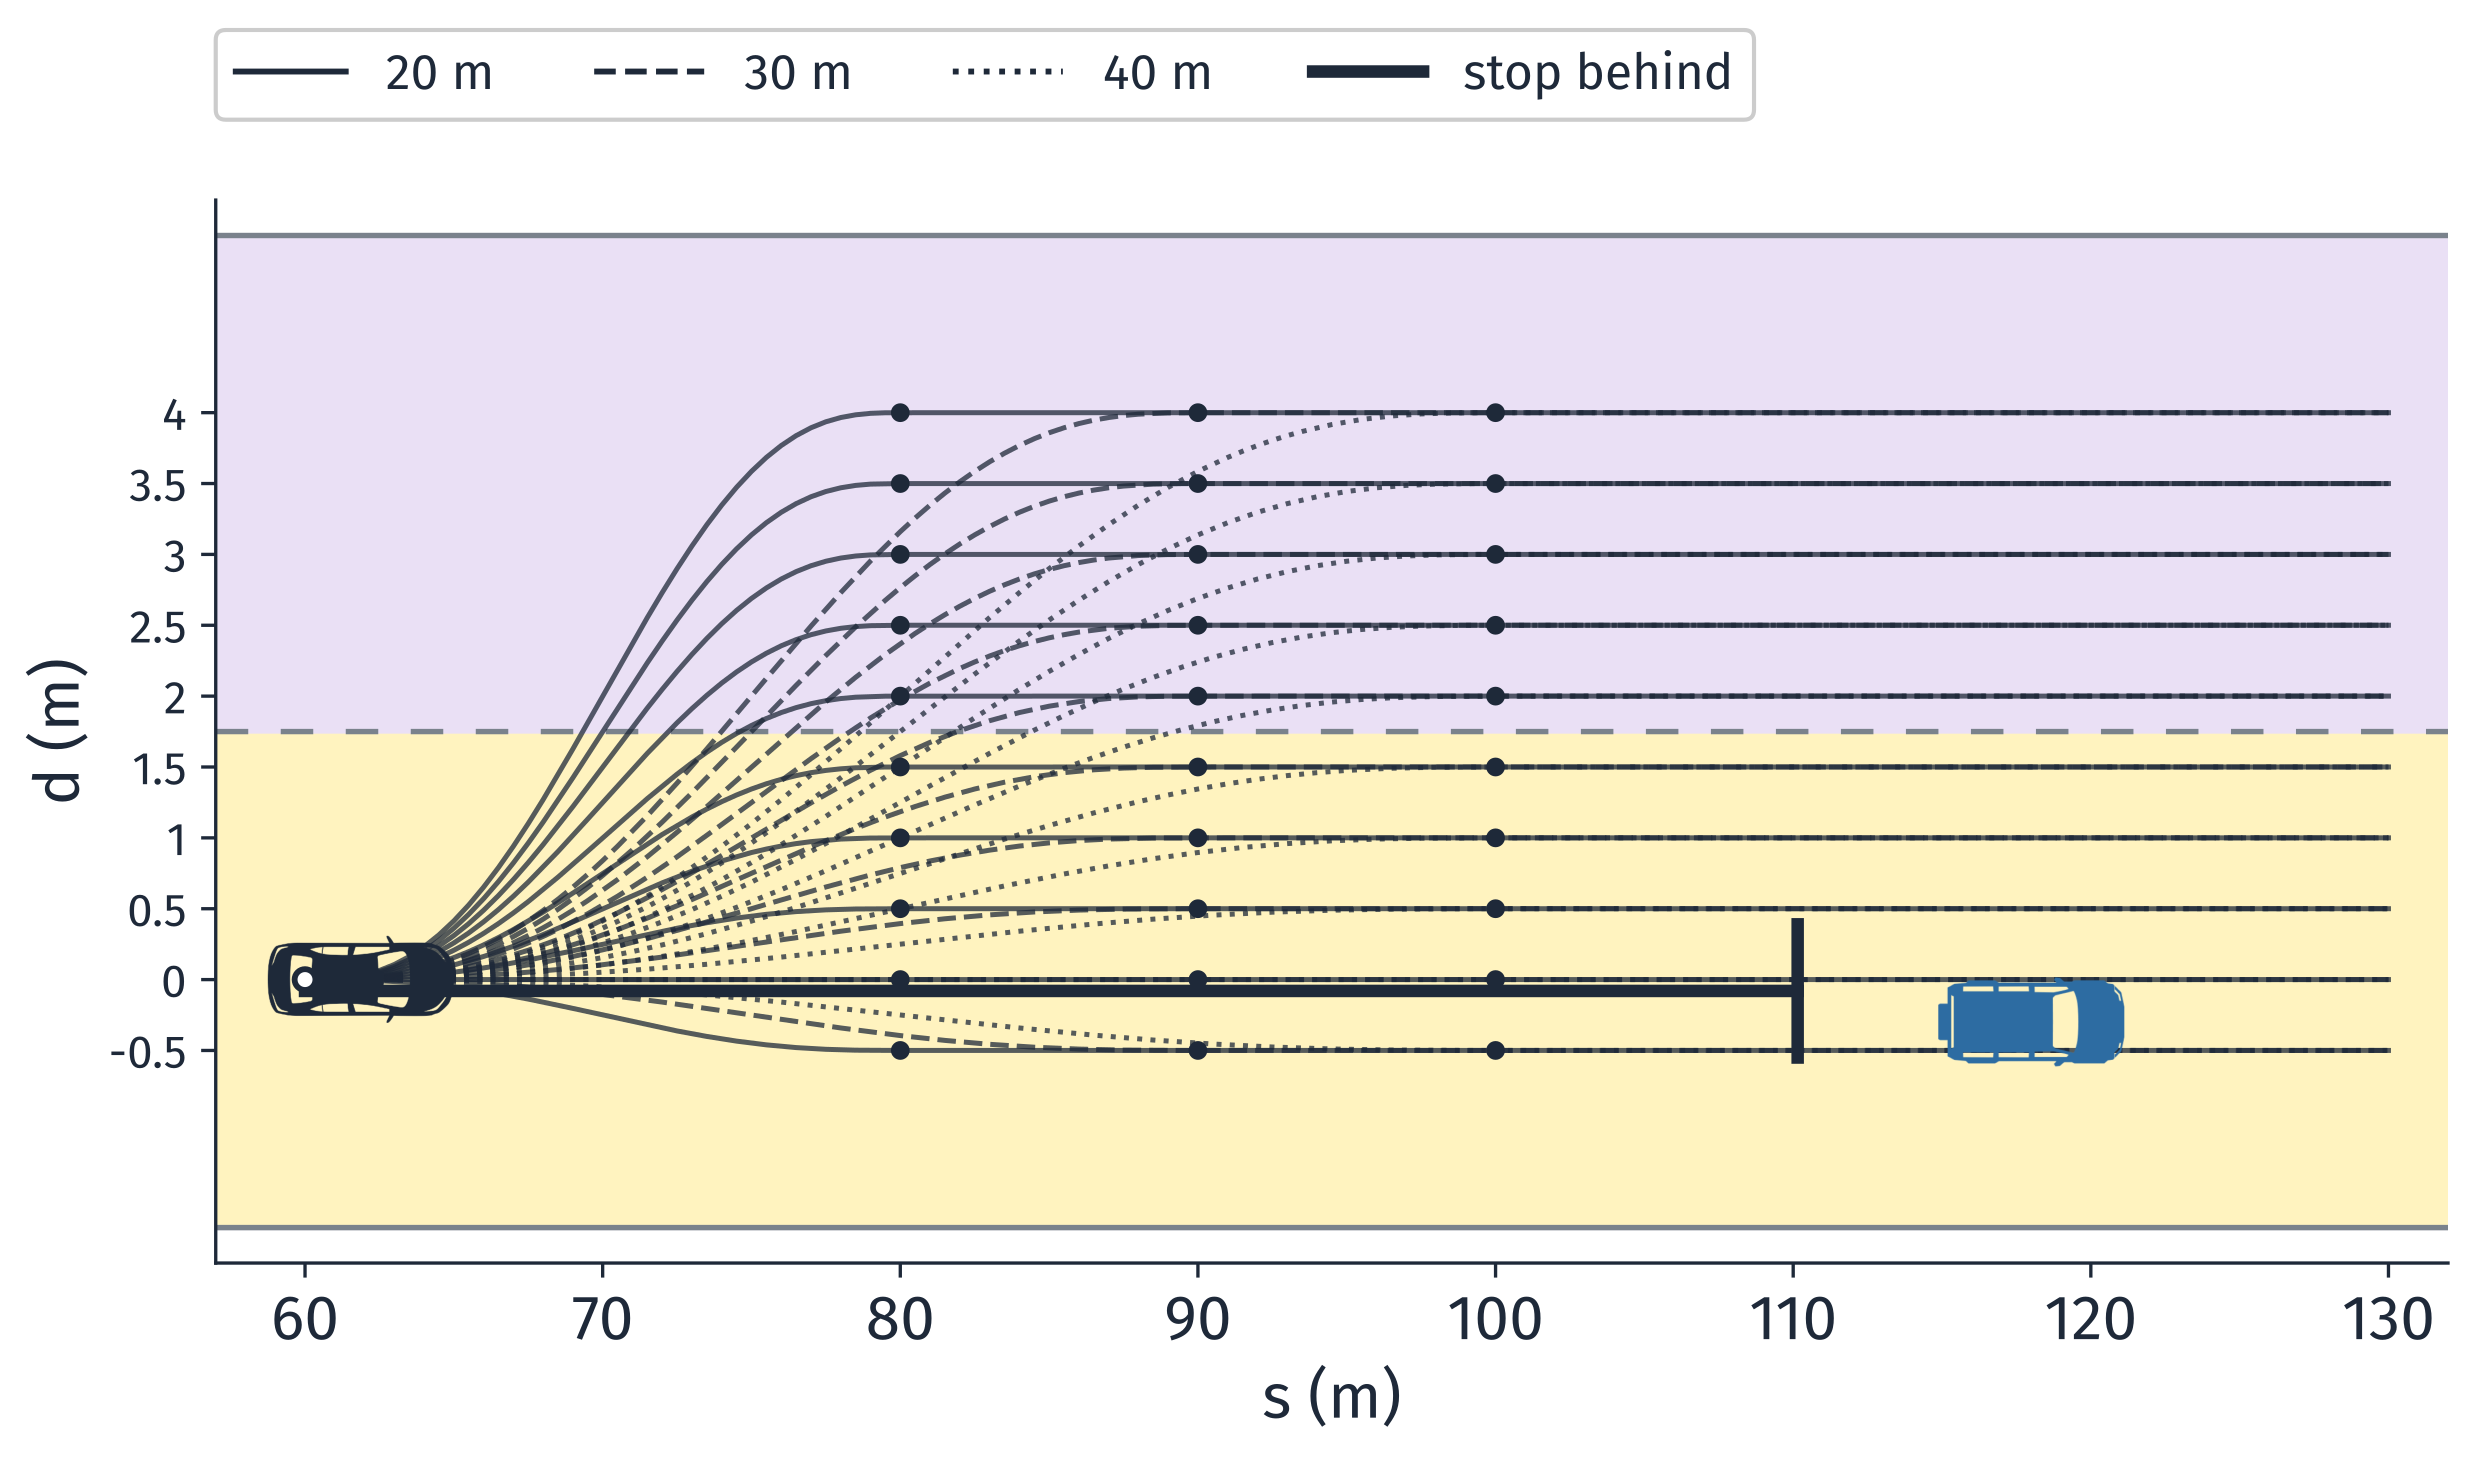
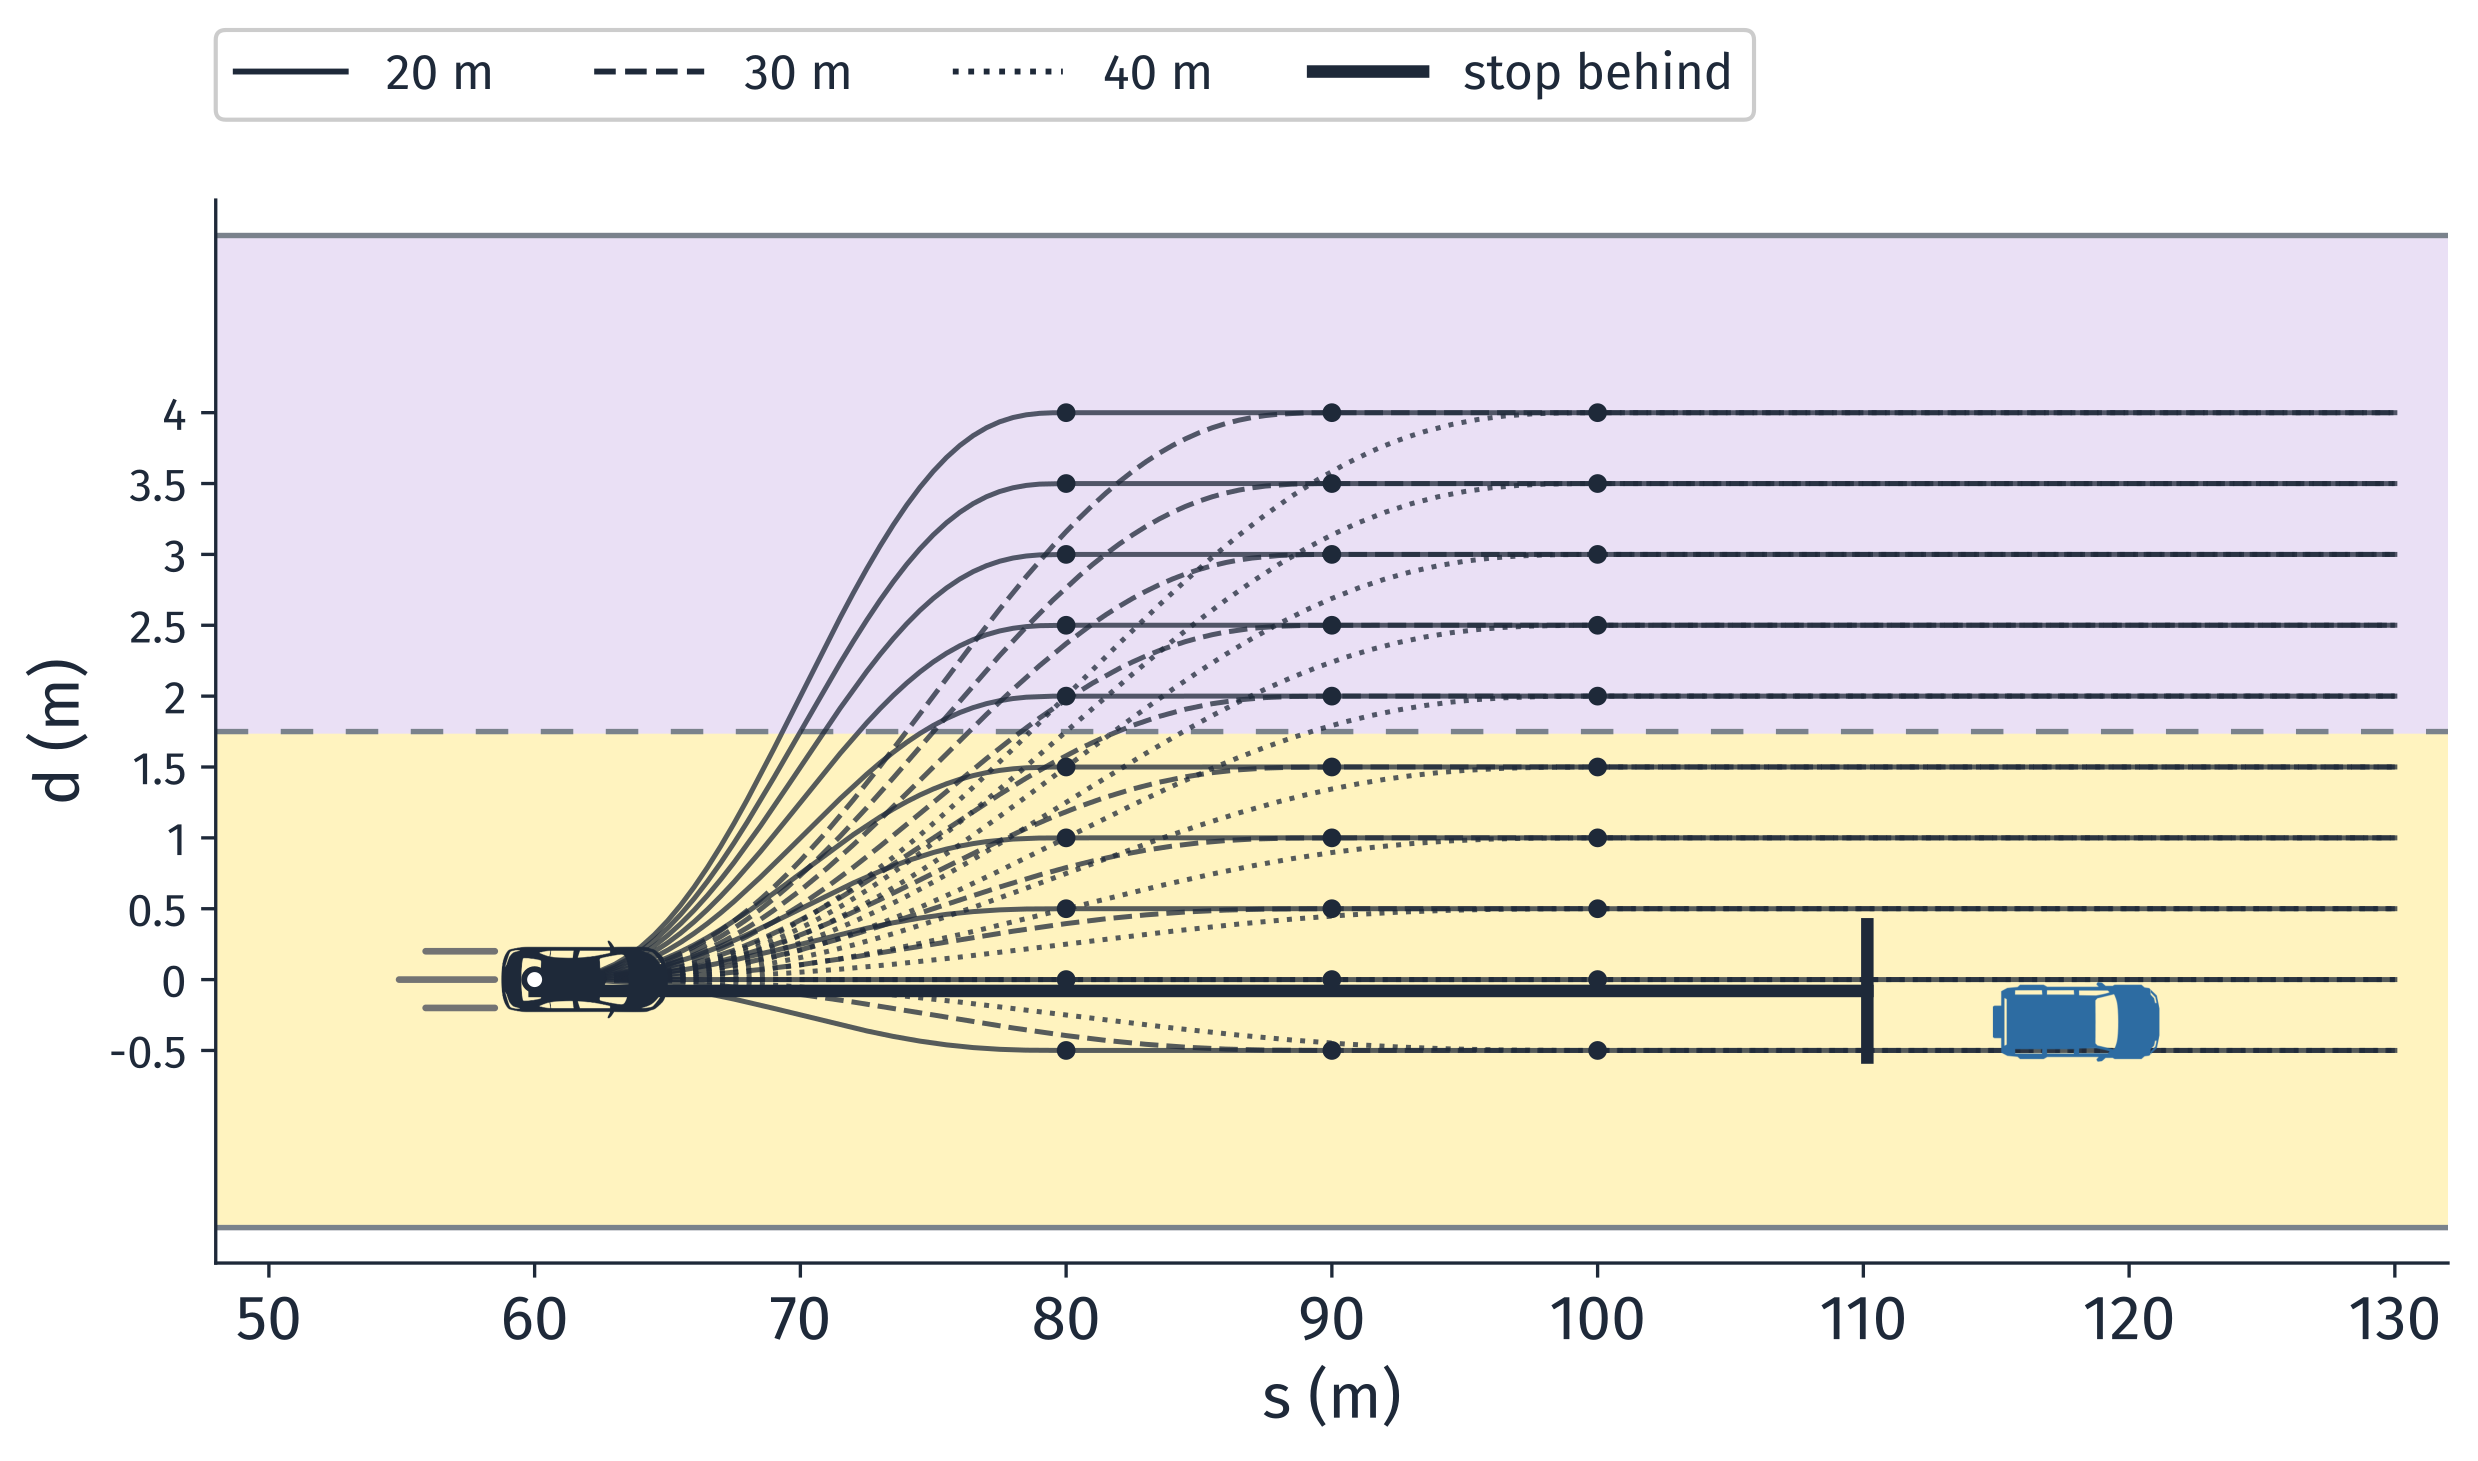
L10: candidate-set recap figure with motion lines behind the AV

diff --git a/docs/source/lectures/lecture10/l10_lecture.rst b/docs/source/lectures/lecture10/l10_lecture.rst
@@ -624,7 +624,7 @@ road, with the AV at 10 m/s. It worked in the Frenet frame: :math:`s` is the
 distance along the right lane's center, :math:`d` the offset to its left.
 
 .. figure:: /_static/images/L10/candidate_set.png
-   :alt: A graph of d against s, s from 57 to 132 meters, the right lane pale yellow and the left lane pale purple. A black car icon, the AV, at s = 60 and d = 0. Thirty thin dark curves leave it, solid, dashed or dotted, and level off at ten values of d from minus 0.5 to 4 meters, every 0.5; a dot marks where each one levels off, at s = 80 for the solid ones, 90 for the dashed ones and 100 for the dotted ones. A thick dark line stays at d = 0 and ends with a bar at s = 110. A blue car icon, the obstacle, at s = 118 just below d = 0. A legend names the line styles 20 m, 30 m and 40 m, and the thick line stop behind.
+   :alt: A graph of d against s, s from 48 to 132 meters, the right lane pale yellow and the left lane pale purple. A black car icon, the AV, at s = 60 and d = 0. Short gray lines trail behind it to show that it moves. Thirty thin dark curves leave it, solid, dashed or dotted, and level off at ten values of d from minus 0.5 to 4 meters, every 0.5; a dot marks where each one levels off, at s = 80 for the solid ones, 90 for the dashed ones and 100 for the dotted ones. A thick dark line stays at d = 0 and ends with a bar at s = 110. A blue car icon, the obstacle, at s = 118 just below d = 0. A legend names the line styles 20 m, 30 m and 40 m, and the thick line stop behind.
    :width: 85%
    :align: center
 
